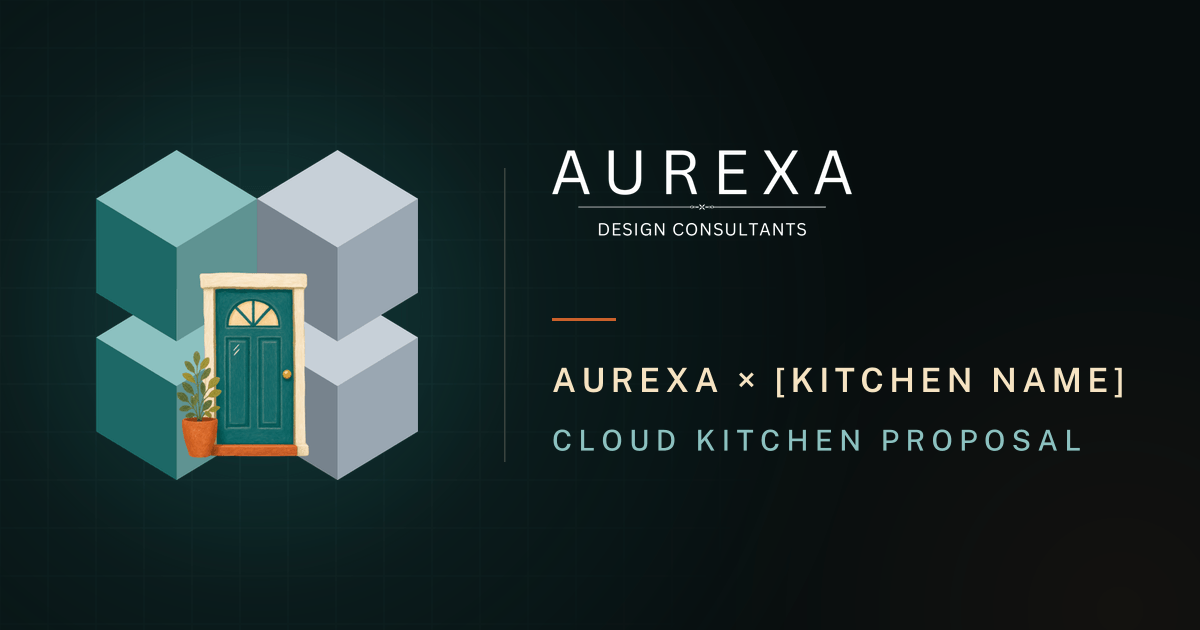
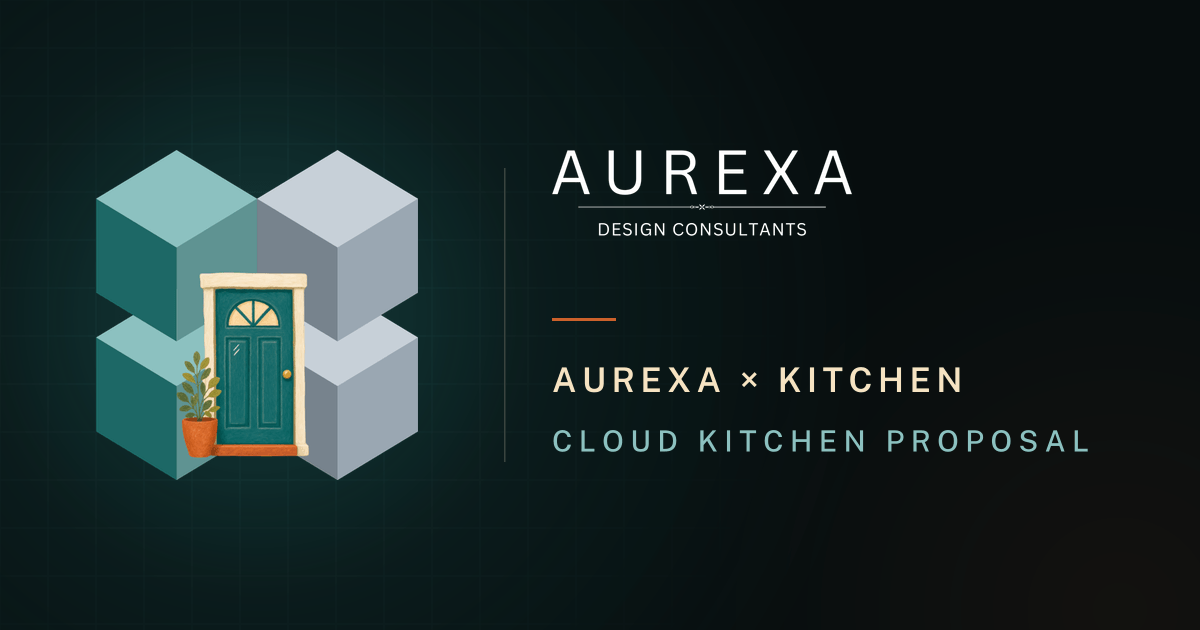
content: set the kitchen name to Kitchen (regenerated floor plan and social image)

Changed region(s): [[0.4625, 0.573, 0.9558, 0.6333], [0.4625, 0.6635, 0.925, 0.7238]]

diff --git a/src/config.ts b/src/config.ts
@@ -1,6 +1,6 @@
 // Placeholders used across the site. Swap these when the client details are confirmed.
 export const CLIENT_NAME = 'Cloud Kitchen';
-export const KITCHEN_NAME = '[Kitchen Name]';
+export const KITCHEN_NAME = 'Kitchen';
 
 export const STUDIO_NAME = 'Aurexa Design Consultants';
 export const SITE_TITLE = `Aurexa × ${KITCHEN_NAME} — Cloud Kitchen Proposal`;

diff --git a/DECISIONS.md b/DECISIONS.md
@@ -29,7 +29,7 @@ Deviations from the LAYOUT SPEC. Rooms and circulation tile the footprint exactl
 - The client's original AI-drawn plan is reference only: it lives in `reference/floorplan-original.png` (git-ignored; renamed from the misspelled `floorplan-orignal.png`), nothing in the site references it, and it is not in `public/` or `dist`. The old build plugin that stripped it from the output is gone. The source logos and palette moved out of `public/` too, to `brand-src/` (tracked; read only by `scripts/brand-assets.mjs`), so nothing reference-only is served.
 - Brand cuts come from an exact two-background matte of logo-light / logo-dark (identical marks on white and black), so no halo on any backdrop. Wordmarks are single-ink (black on light, white on dark); recolour them in CSS with mask-image if a teal or cream version is needed.
 - apple-touch-icon.png is a full-bleed cream square (iOS rounds it itself; pre-rounded transparent corners would show black on iOS). favicon.png / favicon-32.png / favicon.ico are transparent.
-- The OG image splits the title over two lines (AUREXA x [KITCHEN NAME] / CLOUD KITCHEN PROPOSAL) with an orange rule in place of the em dash so it stays legible at thumbnail size; the og:title meta carries the full string. `public/og.png` carries KITCHEN_NAME as a picture: run `npm run assets` after changing it.
+- The OG image splits the title over two lines (AUREXA x KITCHEN / CLOUD KITCHEN PROPOSAL) with an orange rule in place of the em dash so it stays legible at thumbnail size; the og:title meta carries the full string. `public/og.png` carries KITCHEN_NAME as a picture: run `npm run assets` after changing it.
 
 ## Rendering and performance
 

diff --git a/README.md b/README.md
@@ -433,7 +433,7 @@ replaced before the link goes to the client.
 | Export | Placeholder | Appears in |
 | --- | --- | --- |
 | `CLIENT_NAME` | `Cloud Kitchen` | Hero subline, footer ("Prepared for"), page description and link preview |
-| `KITCHEN_NAME` | `[Kitchen Name]` | Tab title, link preview, Vision copy, the Next steps mail subject, the backdrop sign in the Content Creator Corner, `og.png` |
+| `KITCHEN_NAME` | `Kitchen` | Tab title, link preview, Vision copy, the Next steps mail subject, the backdrop sign in the Content Creator Corner, `og.png` |
 | `CONTACT.person`, `.email`, `.phone`, `.address`, `.hours` | `[Contact Name], [Role]`, `hello@aurexa.example`, `+00 00000 00000`, `[Studio address line 1], [City]`, `[Opening hours]` | Next steps band (mailto and tel links are built from email and phone) |
 
 `SITE_TITLE` and `SITE_DESCRIPTION` are built from those names and are injected into `index.html` (title, description,
